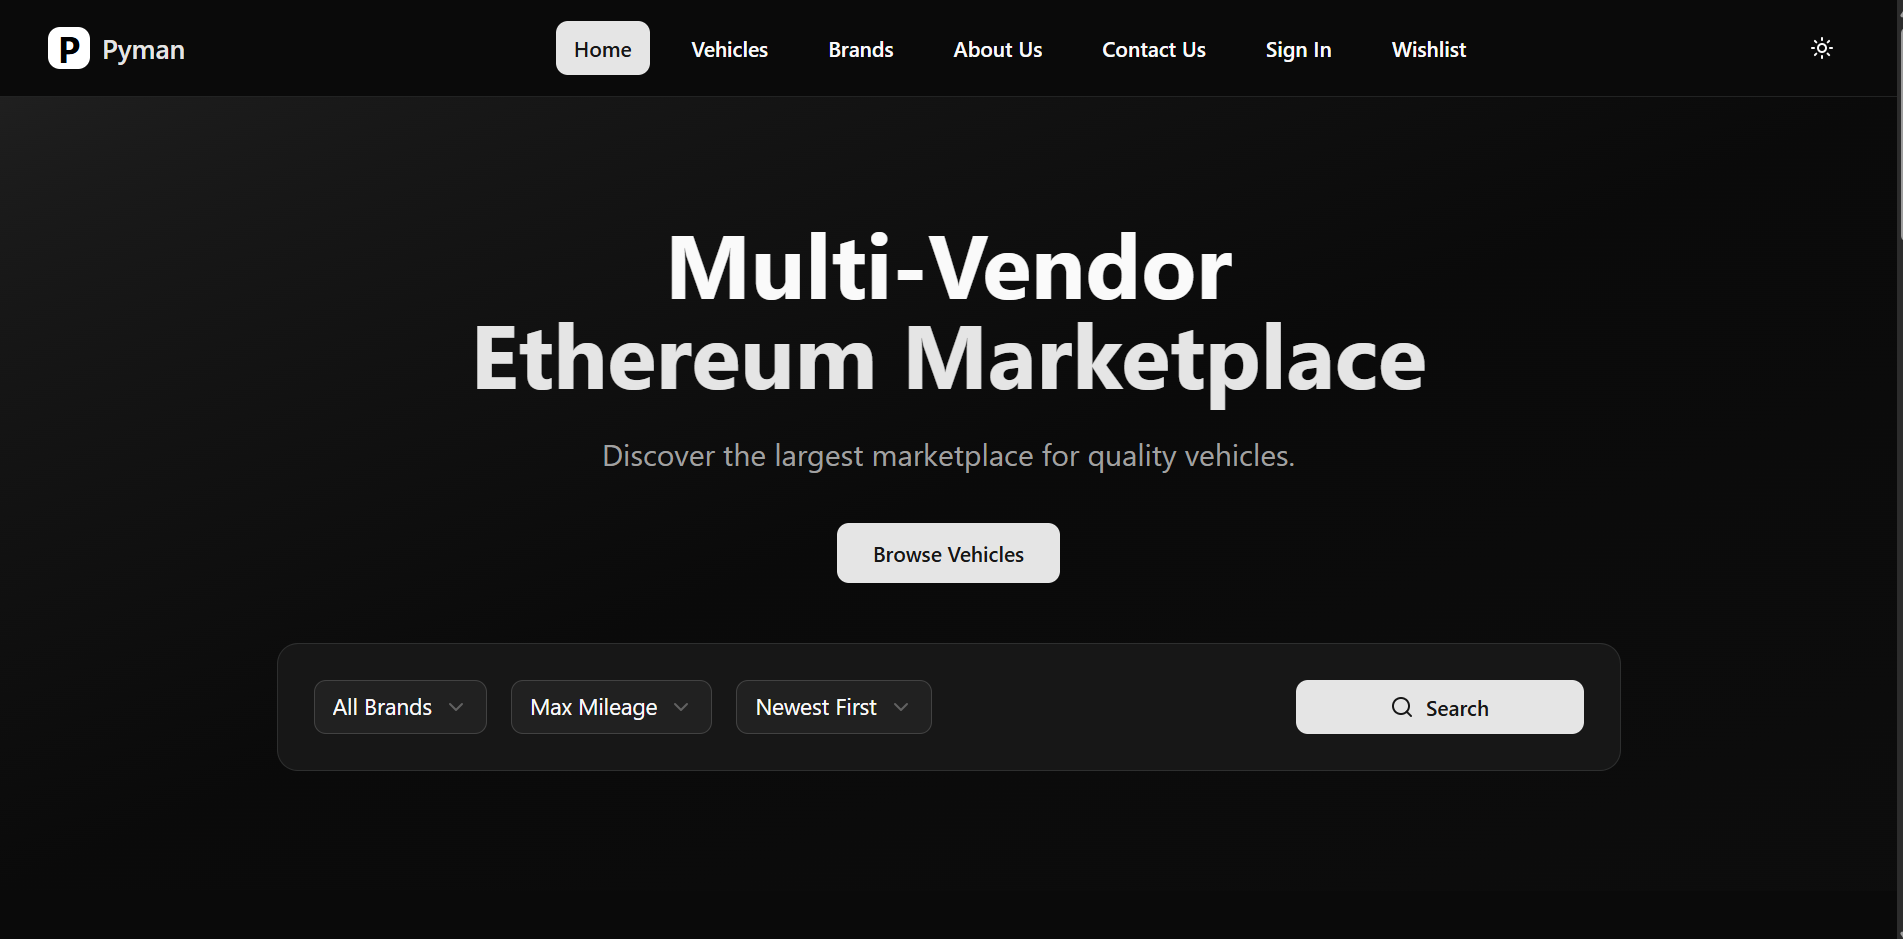
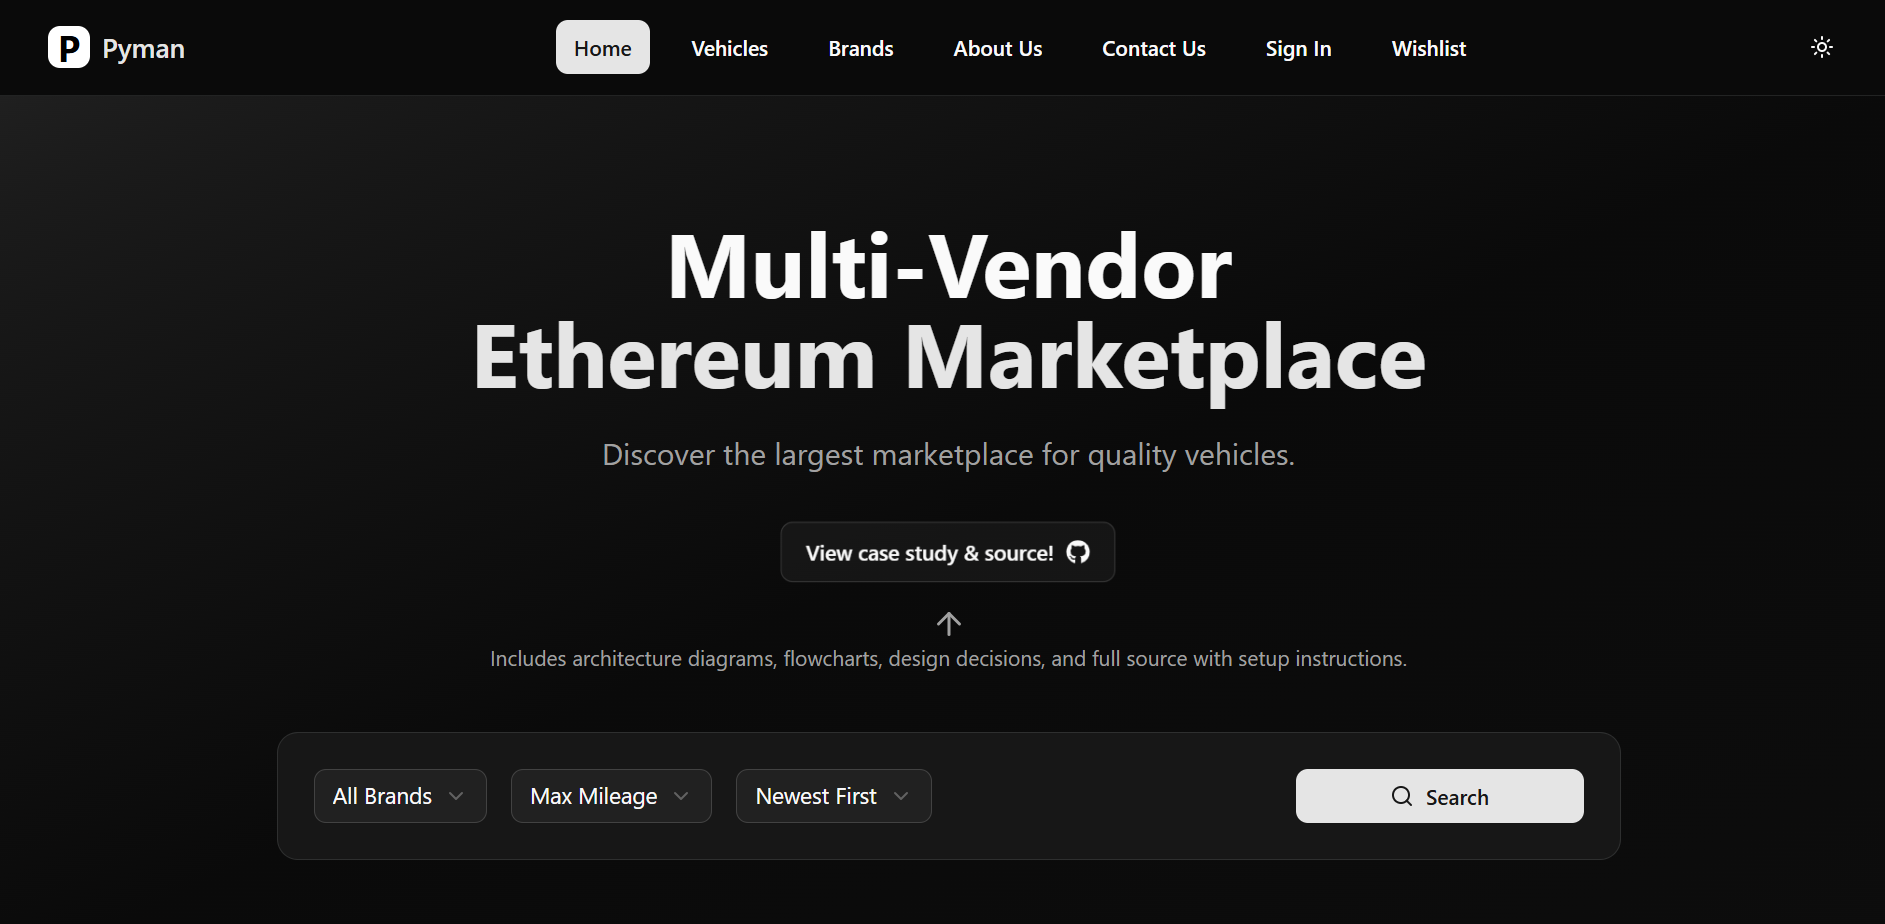
Edit README.md

diff --git a/client/src/components/Footer.jsx b/client/src/components/Footer.jsx
@@ -1,5 +1,5 @@
 import { Mail, Phone, MapPin } from 'lucide-react'
-import { FaXTwitter, FaTiktok, FaYoutube, FaLinkedin } from 'react-icons/fa6'
+import { FaXTwitter, FaTiktok, FaYoutube, FaLinkedin, FaGithub } from 'react-icons/fa6'
 import { Link } from 'react-router-dom'
 
 const Footer = () => {
@@ -63,6 +63,10 @@ const Footer = () => {
             <a href="https://www.linkedin.com/in/msabonkudi" target="_blank" rel="noopener noreferrer" aria-label="X / Twitter"
               className="text-muted-foreground hover:text-primary transition-colors duration-200">
               <FaLinkedin className="w-5 h-5" />
+            </a>
+            <a href="https://www.github.com/m-sabonkudi" target="_blank" rel="noopener noreferrer" aria-label="GitHub"
+              className="text-muted-foreground hover:text-primary transition-colors duration-200">
+              <FaGithub className="w-5 h-5" />
             </a>
           </div>
         </div>

diff --git a/README.md b/README.md
@@ -93,16 +93,8 @@ This flow keeps both parties protected and auditable on-chain.
 
 ## Screenshots
 
-(From the app wireframes / UI images included in the repo.)
-
 - Home / Browse: ![Home](assets/home.png)
-- Make a Purchase / Transaction creation: ![Home](assets/home.png)
-- Vendor marks Delivered: ![Deliver](/assets/pdf_images/page3_img1.png)
-- Buyer confirms: ![Confirm](/assets/pdf_images/page4_img1.png)
-- Vendor claims funds: ![Claim](/assets/pdf_images/page5_img1.png)
-- Dispute flow: ![Dispute prompt](/assets/pdf_images/page6_img1.png)
-- Buyer disputes: ![Dispute action](/assets/pdf_images/page7_img1.png)
-- Confirm return / refund: ![Return](/assets/pdf_images/page8_img1.png)
+
 
 ---
 
@@ -170,8 +162,7 @@ First, go into the project directory `cd Multi-Vendor-Ethereum-Marketplace`
 
 ---
 ### Set up the Solidity contract
-If you would like to deploy your own contract, watch the video here:
-[![Watch on YouTube](https://img.youtube.com/vi/KuNuQ8lEKAU/hqdefault.jpg)](https://youtu.be/KuNuQ8lEKAU?si=Xac07y39RvSDi80V)
+If you would like to deploy your own contract, we will soon release a video on how to do that on the YouTube channel: https://www.youtube.com/@pyman_dev
 
 
 ---
